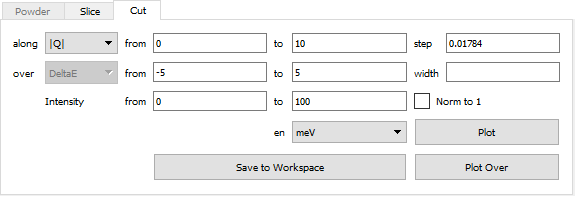
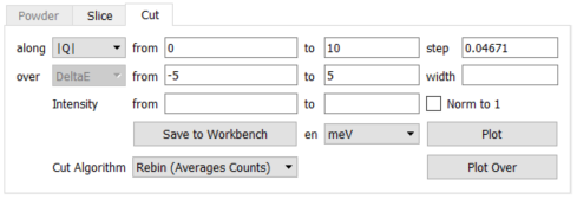
Add changes for eb2ddf95d92b57aceb3a79c77496417e3da8e1b7

Changed region(s): [[0.0, 0.0, 1.0, 1.0], [0.0625, 0.4873, 0.1875, 0.5787]]

diff --git a/searchindex.js b/searchindex.js
@@ -1,1 +1,1 @@
-Search.setIndex({docnames:["cli","cutting","index","quickstart","slicing"],envversion:{"sphinx.domains.c":2,"sphinx.domains.changeset":1,"sphinx.domains.citation":1,"sphinx.domains.cpp":4,"sphinx.domains.index":1,"sphinx.domains.javascript":2,"sphinx.domains.math":2,"sphinx.domains.python":3,"sphinx.domains.rst":2,"sphinx.domains.std":2,"sphinx.ext.todo":2,"sphinx.ext.viewcode":1,sphinx:56},filenames:["cli.rst","cutting.rst","index.rst","quickstart.rst","slicing.rst"],objects:{},objnames:{},objtypes:{},terms:{"0":[0,1,3],"00":3,"00mev_subtract":3,"01":0,"06d_powder":0,"1":[0,1,3,4],"10":[0,1,3],"100":3,"103154":0,"103158":0,"111":0,"16mev":3,"1d":[0,3,4],"2":[0,4],"291":4,"2d":[0,3,4],"3":[0,1,3],"4":[0,1,3,4],"5":0,"55":0,"6":[1,3],"8":0,"9":[1,3],"case":[0,1,3,4],"default":[0,1,3,4],"do":0,"final":[0,1,3],"function":[0,1,4],"import":0,"long":3,"new":3,"short":3,"switch":[3,4],"true":0,A:[3,4],By:3,For:[0,1,3,4],If:[1,3,4],In:[0,1,3,4],It:2,No:0,On:3,One:1,The:[0,1,3,4],Then:3,These:[0,1,3,4],To:[0,1,3,4],_:4,__init__:3,_sum:3,aa:0,abl:[0,1],about:1,abov:[0,1,3,4],accept:0,access:[1,3,4],accommod:0,accur:4,activ:3,ad:0,add:3,add_subplot:0,addit:[0,1,3,4],addition:0,after:3,again:[1,3],algebra:2,algorithm:[3,4],all:[0,3,4],allow:[0,1,3,4],along:[0,1,3],alreadi:1,also:[0,1,3,4],altern:[0,3],although:1,aluminium:[1,4],an:[0,1,3,4],analysi:[1,4],angl:[3,4],ani:[0,2,3],anihil:4,anoth:[3,4],appear:3,append:[0,3],appli:[0,3],ar:[0,1,3,4],arbitrari:[1,4],argument:0,arrow:3,ascii:[1,4],ask:3,automat:3,autoreduc:3,avail:[3,4],awar:0,ax:[0,1,3,4],axi:[1,3],background:[0,3],backspac:3,base:0,basic:3,bat:3,becaus:0,been:[0,3],befor:[0,3,4],behaviour:3,being:[1,4],below:3,between:[0,1],bin:[0,3,4],binmd:4,bose:4,boson:4,both:[0,2,3],box:[0,1,3],bragg:0,bring:4,bug:2,button:[1,3,4],calcul:[0,1,3,4],call:[0,3],can:[0,1,3,4],cannot:3,caus:1,cb:0,centr:4,chang:[0,1,3,4],check:[1,4],checkbox:4,chi:4,choos:3,chose:3,chunk:3,cif:[1,4],classic:4,clear:1,cli:0,click:[1,3,4],clipboard:0,cm:3,cmap:0,code:4,cog:[1,4],colorbar:[0,3],colour:1,column:[1,4],combin:3,combobox:[3,4],command:2,commandlin:2,common:[1,3,4],comput:[3,4],consol:[0,3],contain:3,control:3,convent:3,convers:0,convert:[0,1,2,3],coolwarm:0,coordin:[1,4],copi:[0,3],copper:[1,4],correct:4,correspond:[1,3],creat:[0,1,3],creation:4,cross:[3,4],crystal:3,crystallograph:[1,4],ctrl:3,current:[0,1,2],cursor:3,cut:[2,4],cut_w:0,cuttabl:1,d:4,data:[0,1,2],datafil:[3,4],dataset:[0,1,3],de:4,decreas:3,defin:[0,4],delta:0,denot:3,densiti:4,depend:[3,4],depth:4,desir:[3,4],detail:[1,3],detector:3,determin:1,deuterium:4,develop:3,dialog:[3,4],did:3,differ:[0,3,4],dimension:3,direct:[0,1],directli:[0,3,4],disabl:[1,3,4],disk:[1,4],displai:[2,3],distribut:3,divid:3,divis:4,doe:[0,3],don:3,done:[0,1,3],doubl:[1,3,4],down:3,download:3,drag:3,drop:3,dropdown:4,dynam:[3,4],e:[0,1,4],each:[0,1,3],easi:3,easiest:3,edit:[1,3],editor:3,effici:4,either:[0,1,3,4],electron:4,empti:[1,3],en:3,enabl:[1,3,4],end:0,energi:[0,1,2,4],ensur:3,enter:3,environ:[1,4],equival:4,errorbar:0,etc:0,even:0,event:[1,3,4],everi:3,everyth:3,exampl:[1,2,3],exp:4,explan:[1,4],externalinterfac:3,extra:3,extract:3,f:0,factor:[3,4],fast:3,featur:0,few:3,fig:0,figur:[0,1,4],file:[0,1,2,3],filesystem:3,fill:1,fine:0,finish:3,first:[0,1,3,4],flexibl:0,floppi:[1,4],fmt:0,focu:4,folder:3,font:3,form:4,format:[1,4],forum:2,four:4,frac:4,fraction:[3,4],fresh:1,from:[0,2,3],full:[0,3],fullprof:[1,4],further:1,futur:3,g:[0,1,4],g_n:4,gain:4,gener:[1,2,3,4],get:3,github:3,give:3,given:4,go:3,grain:0,graphic:0,gsa:[1,4],gui:[0,2,3],h:4,ha:[0,3],hair:3,hand:3,handl:3,have:[0,1,3,4],he:4,helium:4,help:[1,4],histo:[1,3],histogramworkspac:0,histori:0,hold:3,howev:[0,1,3],hydrogen:4,hyspec:3,icon:[1,4],imag:[1,3,4],implement:4,implicitli:1,importlib:0,improv:2,includ:[0,2,3],increas:3,individu:3,inelast:2,inform:[0,1,2],input:[1,3,4],instal:3,instead:[0,3],instrument:3,integr:[0,1,3],intemedi:4,intend:3,intens:[1,2],interact:[0,1,2],interfac:[1,2,3],intern:0,introduc:[1,3],ipython:[0,3],isi:3,item:3,its:[0,1,3],jump:3,jupyt:0,just:4,k_bt:4,k_f:4,k_i:4,keep:[0,1,2],kei:[3,4],kept:1,keyboard:3,keyword:0,label:1,larg:[3,4],last:[1,3],later:3,leav:[1,3],left:[1,3],leq:0,less:4,let:0,letter:3,level:3,light:4,like:4,limit:[0,1,3,4],line:2,linear:3,linspac:0,linux:3,load:[1,2,4],locat:3,log:[3,4],logarithm:3,look:[1,4],loss:[3,4],low:0,m:0,made:[1,3],mag:4,magnet:4,mai:[0,1,3,4],main:3,make:[0,1,2,4],makeproject:0,manag:[1,3,4],mani:0,manipul:[1,2],mantid:[0,1,3,4],mantidworkbench:[0,3],map:[0,3],mar28230_ei11:3,mar28236_ei10:3,mar28236_ei11:3,mar28237_ei10:3,mar28237_ei11:3,mat:[1,4],match:0,materi:[1,4],mathrm:[0,4],matlab:[1,3,4],matplotlib:2,maximum:[1,4],mc:0,md:[1,3,4],mdeventworkspac:0,mean:4,memori:3,menu:[0,1,3,4],merg:3,mesh:0,mev:[0,3],milibarn:4,minimum:[1,3],mode:[0,1,2,4],modifi:3,moment:4,momentum:[3,4],more:[1,3,4],mous:3,move:3,mslice:[1,4],mslicedevel:3,mu_b:4,multi:3,multipl:[0,1,3],multipli:4,must:[0,1,4],n:4,name:[0,3],navig:3,need:3,neg:4,neutron:[2,3,4],nexu:[1,4],niobium:[1,4],non:[0,1,2,4],norm:[1,4],normal:0,normalis:[1,4],note:[0,1,3,4],notebook:0,np:0,nuclei:4,number:[3,4],nx:[0,1,3,4],nxspe:[0,3],object:0,obtain:4,off:3,offset:3,ok:[0,3],old:3,omega:4,onc:[3,4],one2on:3,one:[0,3],ongo:3,onli:[0,1,3,4],open:3,openbabel:[1,4],oper:[0,3],option:[0,1,3,4],order:[0,1,3],orient:0,origin:[1,3,4],other:[0,3,4],out:3,outsid:3,over:[0,1,3],overplot:[0,2,3],overrid:0,overwrit:3,own:0,packag:[0,1,4],page:[1,2,4],pane:3,panel:[1,3],paramet:[3,4],particular:[1,3,4],path:[0,3],pcolormesh:0,pdf:[1,4],peak:0,per:0,perform:[0,4],pi:4,pixel:[3,4],pixelworkspac:0,plain:0,plan:3,pleas:[0,1,2,3,4],plot:[1,2,4],plotcut:0,plotov:0,plotslic:0,plt:0,pm:4,png:[1,4],point:[3,4],popul:4,posit:[1,3,4],possibl:1,powder:[2,3],present:3,preserv:3,press:3,previou:3,previous:1,primarili:3,prior:0,process:[2,3],produc:[0,1,3,4],program:[2,3],project:[0,1,3,4],properti:4,provid:[0,1,3,4],psd:[0,1,2,4],put:0,py:[0,3],pycifrw:[1,4],pyplot:0,python:0,q:[0,1,4],qq:0,quick:2,quickli:4,quit:3,r_e:4,radiu:4,rang:[0,1,3],rapid:3,rather:[3,4],re:0,reach:3,read:[1,4],readabl:[1,4],reason:4,rebin2d:4,rebin:[0,3,4],recognis:0,recoil:[0,2],recommend:0,rectangl:3,rectangular:3,redraw:3,reduc:3,reflect:[1,4],region:3,relat:4,releas:3,relev:1,reload:0,remaind:1,remov:3,render:0,reorganis:4,replot:3,report:2,reproduc:0,requir:3,resav:[1,4],respect:[1,3],restart:3,result:[1,3],ring:[0,3],rr:0,run:[0,3],s:[0,3,4],sai:3,same:[0,1,3,4],sampl:[1,3,4],save:[2,3],scalar:0,scale:1,scatter:[2,3,4],script:[2,3],script_nam:0,search:2,section:4,see:[1,3,4],select:[1,3,4],self:3,send:[1,3],sens:1,sensit:3,separ:3,seq_:0,seri:4,set:3,set_clim:0,set_titl:0,set_xlabel:0,set_xlim:0,set_ylim:0,sever:3,sh:3,shield:3,shift:3,shorter:0,should:3,show:[0,3],shown:[1,4],side:4,sigma:4,sign:4,signal:[1,4],similar:0,simpl:1,simultan:[1,4],singl:[1,3],size:[0,1,3,4],slice:[1,2],slice_w:0,small:3,smaller:[3,4],sn:3,so:[0,3],sofqwnormalisedpolygon:[3,4],some:[1,3,4],someth:0,specif:[2,3],specifi:[0,1,3,4],spectromet:3,spectrum:4,split:3,stabl:3,standard:0,start:2,state:4,step:[0,1,3,4],strictli:4,style:0,subfold:3,subplot:0,subsequ:[0,3],subtract:3,suggest:2,sum:3,support:[0,3],suscept:4,swap:3,symbol:1,symmetris:4,syntax:0,system:1,t:3,tab:[1,3,4],take:2,taken:3,tall:3,tantalum:[1,4],temperatur:[0,4],text:4,than:[3,4],thei:0,them:[1,3,4],thi:[0,1,2,3,4],three:[1,3],thu:[0,4],time:[0,1],titl:[0,1,3,4],togeth:3,tool:[0,2],toolbar:[1,3],total:4,transfer:[0,1,2,4],tree:3,turn:3,two:[1,3],txt:[1,3,4],type:[0,1,3,4],uncertainti:[1,4],unit:[2,4],uniti:[1,4],up:[3,4],updat:3,us:[1,2,3,4],user:[3,4],usual:[3,4],valu:[1,3,4],ve:3,vector:1,veri:3,versa:1,version:[2,3],versu:4,vertic:3,vesta:[1,4],via:3,vice:1,view:4,visual:2,volum:4,vs:4,wa:1,wai:[0,3],want:[0,3],waterfal:3,wavenumb:3,we:[1,4],weight:4,whatev:1,when:[0,1,3],where:4,wherea:4,whether:[1,3],which:[0,1,3,4],whilst:[0,3],white:3,width:[0,1,3],window:[0,1,3,4],wish:1,within:3,without:[1,3],work:0,workbench:1,workspac:[1,2,4],would:0,wrap:0,write:3,written:0,ws1:0,ws2:0,ws2d:0,ws:0,wsq:0,wss:0,x:[1,3,4],xye:[1,3,4],y:[1,3,4],you:[0,1,3,4],your:[3,4],z:4,zip:3},titles:["<span class=\"section-number\">4. </span>Command Line Interface","<span class=\"section-number\">2. </span>Taking Cuts","MSlice for Mantid","<span class=\"section-number\">1. </span>Quick Start","<span class=\"section-number\">3. </span>Taking Slices"],titleterms:{algebra:0,command:0,convert:4,current:3,cut:[0,1,3],data:[3,4],displai:4,energi:3,exampl:0,file:4,from:[1,4],gener:0,gui:[1,4],inform:4,intens:4,interact:3,interfac:0,keep:3,line:[0,1,4],load:[0,3],make:3,manipul:[0,3],mantid:2,matplotlib:0,mode:3,mslice:[0,2,3],non:3,overplot:[1,4],plot:[0,3],powder:[1,4],psd:3,quick:3,recoil:4,save:[1,4],script:0,seri:0,slice:[0,3,4],specif:0,start:3,take:[1,4],transfer:3,unit:3,us:0,workspac:[0,3]}})
+Search.setIndex({docnames:["cli","cutting","index","quickstart","slicing"],envversion:{"sphinx.domains.c":2,"sphinx.domains.changeset":1,"sphinx.domains.citation":1,"sphinx.domains.cpp":4,"sphinx.domains.index":1,"sphinx.domains.javascript":2,"sphinx.domains.math":2,"sphinx.domains.python":3,"sphinx.domains.rst":2,"sphinx.domains.std":2,"sphinx.ext.todo":2,"sphinx.ext.viewcode":1,sphinx:56},filenames:["cli.rst","cutting.rst","index.rst","quickstart.rst","slicing.rst"],objects:{},objnames:{},objtypes:{},terms:{"0":[0,1,3],"00":3,"00mev_subtract":3,"01":0,"06d_powder":0,"1":[0,1,3,4],"10":[0,1,3],"100":3,"103154":0,"103158":0,"111":0,"16mev":3,"1d":[0,3,4],"2":[0,4],"291":4,"2d":[0,3,4],"3":[0,1,3],"4":[0,1,3,4],"5":0,"55":0,"6":[1,3],"8":0,"9":[1,3],"case":[0,1,3,4],"default":[0,1,3,4],"do":0,"final":[0,1,3],"function":[0,1,4],"import":0,"long":3,"new":3,"short":3,"switch":[3,4],"true":0,A:[3,4],By:3,For:[0,1,3,4],If:[1,3,4],In:[0,1,3,4],It:2,No:0,On:3,One:1,The:[0,1,3,4],Then:3,There:1,These:[0,1,3,4],To:[0,1,3,4],_:4,__init__:3,_sum:3,aa:0,abl:[0,1],about:1,abov:[0,1,3,4],accept:0,access:[1,3,4],accommod:0,accur:4,activ:3,ad:0,add:3,add_subplot:0,addit:[0,1,3,4],addition:0,after:3,again:[1,3],algebra:2,algorithm:[1,3,4],all:[0,3,4],allow:[0,1,3,4],along:[0,1,3],alreadi:1,also:[0,1,3,4],altern:[0,3],although:1,aluminium:[1,4],an:[0,1,3,4],analysi:[1,4],angl:[3,4],ani:[0,2,3],anihil:4,anoth:[3,4],appear:3,append:[0,3],appli:[0,3],ar:[0,1,3,4],arbitrari:[1,4],argument:0,arrow:3,ascii:[1,4],ask:3,automat:3,autoreduc:3,avail:[3,4],averag:1,awar:0,ax:[0,1,3,4],axi:[1,3],background:[0,3],backspac:3,base:0,basic:[1,3],bat:3,becaus:0,been:[0,3],befor:[0,3,4],behaviour:3,being:[1,4],below:3,between:[0,1],bin:[0,3,4],binmd:4,bose:4,boson:4,both:[0,2,3],box:[0,1,3],bragg:0,bring:4,bug:2,button:[1,3,4],calcul:[0,1,3,4],call:[0,3],can:[0,1,3,4],cannot:3,caus:1,cb:0,centr:4,chang:[0,1,3,4],check:[1,4],checkbox:4,chi:4,choos:3,chose:3,chunk:3,cif:[1,4],classic:4,clear:1,cli:0,click:[1,3,4],clipboard:0,cm:3,cmap:0,code:4,cog:[1,4],colorbar:[0,3],colour:1,column:[1,4],combin:3,combobox:[3,4],command:2,commandlin:2,common:[1,3,4],comput:[1,3,4],consol:[0,3],contain:3,control:3,convent:3,convers:0,convert:[0,1,2,3],coolwarm:0,coordin:[1,4],copi:[0,3],copper:[1,4],correct:4,correspond:[1,3],count:1,creat:[0,1,3],creation:4,cross:[3,4],crystal:3,crystallograph:[1,4],ctrl:3,current:[0,1,2],cursor:3,cut:[2,4],cut_w:0,cuttabl:1,d:4,data:[0,1,2],datafil:[3,4],dataset:[0,1,3],de:4,decreas:3,defin:[0,4],delta:0,denot:3,densiti:4,depend:[3,4],depth:4,desir:[3,4],detail:[1,3],detector:3,determin:1,deuterium:4,develop:3,dialog:[3,4],did:3,differ:[0,1,3,4],dimension:3,direct:[0,1],directli:[0,1,3,4],disabl:[1,3,4],disk:[1,4],displai:[2,3],distribut:3,divid:3,divis:4,doe:[0,3],don:3,done:[0,1,3],doubl:[1,3,4],down:3,download:3,drag:3,drop:3,dropdown:4,dynam:[3,4],e:[0,1,4],each:[0,1,3],easi:3,easiest:3,edit:[1,3],editor:3,effect:1,effici:4,either:[0,1,3,4],electron:4,empti:[1,3],en:3,enabl:[1,3,4],end:0,energi:[0,1,2,4],ensur:3,enter:3,environ:[1,4],equival:4,errorbar:0,etc:0,even:0,event:[1,3,4],everi:3,everyth:3,exampl:[1,2,3],exp:4,explan:[1,4],externalinterfac:3,extra:3,extract:3,f:0,factor:[3,4],fast:3,featur:0,few:3,fig:0,figur:[0,1,4],file:[0,1,2,3],filesystem:3,fill:1,fine:0,finish:3,first:[0,1,3,4],flexibl:0,floppi:[1,4],fmt:0,focu:4,folder:3,font:3,form:4,format:[1,4],forum:2,four:4,frac:4,fraction:[3,4],fresh:1,from:[0,2,3],full:[0,3],fullprof:[1,4],further:1,futur:3,g:[0,1,4],g_n:4,gain:4,gener:[1,2,3,4],get:3,github:3,give:3,given:4,go:3,grain:0,graphic:0,gsa:[1,4],gui:[0,2,3],h:4,ha:[0,3],hair:3,hand:3,handl:3,have:[0,1,3,4],he:4,helium:4,help:[1,4],histo:[1,3],histogramworkspac:0,histori:0,hold:3,howev:[0,1,3],hydrogen:4,hyspec:3,icon:[1,4],imag:[1,3,4],implement:4,implicitli:1,importlib:0,improv:2,includ:[0,2,3],increas:3,individu:3,inelast:2,inform:[0,1,2],input:[1,3,4],instal:3,instead:[0,3],instrument:3,integr:[0,1,3],intemedi:4,intend:3,intens:[1,2],interact:[0,1,2],interfac:[1,2,3],intern:0,introduc:[1,3],ipython:[0,3],isi:3,item:3,its:[0,1,3],jump:3,jupyt:0,just:4,k_bt:4,k_f:4,k_i:4,keep:[0,1,2],kei:[3,4],kept:1,keyboard:3,keyword:0,label:1,larg:[3,4],last:[1,3],later:3,leav:[1,3],left:[1,3],leq:0,less:4,let:0,letter:3,level:3,light:4,like:4,limit:[0,1,3,4],line:2,linear:3,linspac:0,linux:3,load:[1,2,4],locat:3,log:[3,4],logarithm:3,look:[1,4],loss:[3,4],low:0,m:0,made:[1,3],mag:4,magnet:4,mai:[0,1,3,4],main:3,make:[0,1,2,4],makeproject:0,manag:[1,3,4],mani:0,manipul:[1,2],mantid:[0,1,3,4],mantidworkbench:[0,3],map:[0,3],mar28230_ei11:3,mar28236_ei10:3,mar28236_ei11:3,mar28237_ei10:3,mar28237_ei11:3,mat:[1,4],match:0,materi:[1,4],mathrm:[0,4],matlab:[1,3,4],matplotlib:2,maximum:[1,4],mc:0,md:[1,3,4],mdeventworkspac:0,mean:4,memori:3,menu:[0,1,3,4],merg:3,mesh:0,method:1,mev:[0,3],milibarn:4,minimum:[1,3],mode:[0,1,2,4],modifi:3,moment:4,momentum:[3,4],more:[1,3,4],mous:3,move:3,mslice:[1,4],mslicedevel:3,mu_b:4,multi:3,multipl:[0,1,3],multipli:4,must:[0,1,4],n:4,name:[0,3],navig:3,need:3,neg:4,neutron:[2,3,4],nexu:[1,4],niobium:[1,4],non:[0,1,2,4],norm:[1,4],normal:0,normalis:[1,4],note:[0,1,3,4],notebook:0,np:0,nuclei:4,number:[3,4],nx:[0,1,3,4],nxspe:[0,3],object:0,obtain:4,off:3,offset:3,ok:[0,3],old:3,omega:4,onc:[3,4],one2on:3,one:[0,3],ongo:3,onli:[0,1,3,4],open:3,openbabel:[1,4],oper:[0,3],option:[0,1,3,4],order:[0,1,3],orient:0,origin:[1,3,4],other:[0,3,4],out:3,outsid:3,over:[0,1,3],overplot:[0,2,3],overrid:0,overwrit:3,own:0,packag:[0,1,4],page:[1,2,4],pane:3,panel:[1,3],paramet:[3,4],particular:[1,3,4],path:[0,3],pcolormesh:0,pdf:[1,4],peak:0,per:0,perform:[0,4],pi:4,pixel:[3,4],pixelworkspac:0,plain:0,plan:3,pleas:[0,1,2,3,4],plot:[1,2,4],plotcut:0,plotov:0,plotslic:0,plt:0,pm:4,png:[1,4],point:[3,4],popul:4,posit:[1,3,4],possibl:1,powder:[2,3],present:3,preserv:3,press:3,previou:3,previous:1,primarili:3,prior:0,process:[2,3],produc:[0,1,3,4],program:[2,3],project:[0,1,3,4],properti:4,provid:[0,1,3,4],psd:[0,1,2,4],put:0,py:[0,3],pycifrw:[1,4],pyplot:0,python:0,q:[0,1,4],qq:0,quick:2,quickli:4,quit:3,r_e:4,radiu:4,rang:[0,1,3],rapid:3,rather:[3,4],re:0,reach:3,read:[1,4],readabl:[1,4],reason:4,rebin2d:4,rebin:[0,1,3,4],recognis:0,recoil:[0,2],recommend:0,rectangl:3,rectangular:3,redraw:3,reduc:3,reflect:[1,4],region:3,relat:4,releas:3,relev:1,reload:0,remaind:1,remov:3,render:0,reorganis:4,replot:3,report:2,reproduc:0,requir:3,resav:[1,4],respect:[1,3],restart:3,result:[1,3],ring:[0,3],rr:0,run:[0,3],s:[0,3,4],sai:3,same:[0,1,3,4],sampl:[1,3,4],save:[2,3],scalar:0,scale:1,scatter:[2,3,4],script:[2,3],script_nam:0,search:2,section:4,see:[1,3,4],select:[1,3,4],self:3,send:[1,3],sens:1,sensit:3,separ:3,seq_:0,seri:4,set:3,set_clim:0,set_titl:0,set_xlabel:0,set_xlim:0,set_ylim:0,sever:3,sh:3,shield:3,shift:3,shorter:0,should:3,show:[0,3],shown:[1,4],side:4,sigma:4,sign:4,signal:[1,4],similar:0,simpl:1,simultan:[1,4],singl:[1,3],size:[0,1,3,4],slice:[1,2],slice_w:0,small:3,smaller:[3,4],sn:3,so:[0,3],sofqwnormalisedpolygon:[3,4],some:[1,3,4],someth:0,specif:[2,3],specifi:[0,1,3,4],spectromet:3,spectrum:4,split:3,stabl:3,standard:0,start:2,state:4,step:[0,1,3,4],strictli:4,style:0,subfold:3,subplot:0,subsequ:[0,3],subtract:3,suggest:2,sum:[1,3],support:[0,3],suscept:4,swap:3,symbol:1,symmetris:4,syntax:0,system:1,t:3,tab:[1,3,4],take:2,taken:3,tall:3,tantalum:[1,4],temperatur:[0,4],text:4,than:[3,4],thei:0,them:[1,3,4],thi:[0,1,2,3,4],three:[1,3],thu:[0,4],time:[0,1],titl:[0,1,3,4],togeth:3,tool:[0,2],toolbar:[1,3],total:4,transfer:[0,1,2,4],tree:3,turn:3,two:[1,3],txt:[1,3,4],type:[0,1,3,4],uncertainti:[1,4],unit:[2,4],uniti:[1,4],up:[3,4],updat:3,us:[1,2,3,4],user:[3,4],usual:[3,4],valu:[1,3,4],ve:3,vector:1,veri:3,versa:1,version:[2,3],versu:4,vertic:3,vesta:[1,4],via:3,vice:1,view:4,visual:2,volum:4,vs:4,wa:1,wai:[0,3],want:[0,3],waterfal:3,wavenumb:3,we:[1,4],weight:4,whatev:1,when:[0,1,3],where:4,wherea:4,whether:[1,3],which:[0,1,3,4],whilst:[0,1,3],white:3,width:[0,1,3],window:[0,1,3,4],wish:1,within:3,without:[1,3],work:0,workbench:1,workspac:[1,2,4],would:0,wrap:0,write:3,written:0,ws1:0,ws2:0,ws2d:0,ws:0,wsq:0,wss:0,x:[1,3,4],xye:[1,3,4],y:[1,3,4],you:[0,1,3,4],your:[3,4],z:4,zip:3},titles:["<span class=\"section-number\">4. </span>Command Line Interface","<span class=\"section-number\">2. </span>Taking Cuts","MSlice for Mantid","<span class=\"section-number\">1. </span>Quick Start","<span class=\"section-number\">3. </span>Taking Slices"],titleterms:{algebra:0,command:0,convert:4,current:3,cut:[0,1,3],data:[3,4],displai:4,energi:3,exampl:0,file:4,from:[1,4],gener:0,gui:[1,4],inform:4,intens:4,interact:3,interfac:0,keep:3,line:[0,1,4],load:[0,3],make:3,manipul:[0,3],mantid:2,matplotlib:0,mode:3,mslice:[0,2,3],non:3,overplot:[1,4],plot:[0,3],powder:[1,4],psd:3,quick:3,recoil:4,save:[1,4],script:0,seri:0,slice:[0,3,4],specif:0,start:3,take:[1,4],transfer:3,unit:3,us:0,workspac:[0,3]}})

diff --git a/cutting.html b/cutting.html
@@ -61,6 +61,8 @@ cuts between the specified integration minimum and maximum with the specified wi
 For example, if <code class="docutils literal notranslate"><span class="pre">from</span></code> is <code class="docutils literal notranslate"><span class="pre">0</span></code> and <code class="docutils literal notranslate"><span class="pre">to</span></code> is <code class="docutils literal notranslate"><span class="pre">10</span></code> and <code class="docutils literal notranslate"><span class="pre">width</span></code> is <code class="docutils literal notranslate"><span class="pre">3</span></code>, clicking <code class="docutils literal notranslate"><span class="pre">Plot</span></code> will overplot 4 cuts which
 integrate over [0,3], [3,6], [6,9] and [9,10] respectively.</p>
 <p>Cuts with the same range from multiple datasets can be plotted by first selecting multiple workspaces in the left panel.</p>
+<p>There are two different methods to compute cuts. <code class="docutils literal notranslate"><span class="pre">Rebin</span></code> uses the basic rebinning algorithms directly and effectively averages
+the counts in the integration range, whilst <code class="docutils literal notranslate"><span class="pre">Integration</span></code> sums the counts in the integration range.</p>
 <p>Clicking on the <code class="docutils literal notranslate"><span class="pre">Norm</span> <span class="pre">to</span> <span class="pre">1</span></code> check box will cause the resulting cut data to be normalised such that the maximum of the data
 of each cut is unity.</p>
 <p>The <code class="docutils literal notranslate"><span class="pre">Plot</span> <span class="pre">Over</span></code> button allows you to overplot data on the same figure window without first clearing the current data. Note
@@ -100,10 +102,8 @@ addition you can also save the figure as an image, either in <code class="docuti
 <p>In order to save a cut from an <a class="reference internal" href="quickstart.html#interactive-cuts"><span class="std std-ref">Interactive Cuts</span></a>, you can click the <code class="docutils literal notranslate"><span class="pre">Save</span></code> icon (floppy disk) direct on the cut
 window, or first click the <code class="docutils literal notranslate"><span class="pre">Save</span> <span class="pre">Cut</span> <span class="pre">to</span> <span class="pre">Workspace</span></code> button to create an <code class="docutils literal notranslate"><span class="pre">MD</span> <span class="pre">Histo</span></code> type workspace and then use the <code class="docutils literal notranslate"><span class="pre">Save</span></code> button on
 that tab.</p>
-<dl class="simple">
-<dt>When MSlice is used as a Mantid interface <code class="docutils literal notranslate"><span class="pre">MD</span> <span class="pre">Histo</span></code> type workspaces can also be saved to Mantid Workbench by clicking the</dt><dd><p><code class="docutils literal notranslate"><span class="pre">Save</span> <span class="pre">to</span> <span class="pre">Workbench</span></code> button either on the <code class="docutils literal notranslate"><span class="pre">MD</span> <span class="pre">Histo</span></code> or the <code class="docutils literal notranslate"><span class="pre">Cut</span></code> tab.</p>
-</dd>
-</dl>
+<p>When MSlice is used as a Mantid interface <code class="docutils literal notranslate"><span class="pre">MD</span> <span class="pre">Histo</span></code> type workspaces can also be saved to Mantid Workbench by clicking the
+<code class="docutils literal notranslate"><span class="pre">Save</span> <span class="pre">to</span> <span class="pre">Workbench</span></code> button either on the <code class="docutils literal notranslate"><span class="pre">MD</span> <span class="pre">Histo</span></code> or the <code class="docutils literal notranslate"><span class="pre">Cut</span></code> tab.</p>
 </section>
 </section>
 

diff --git a/quickstart.html b/quickstart.html
@@ -126,7 +126,7 @@ Only when you click <code class="docutils literal notranslate"><span class="pre"
 </section>
 <section id="plotting-a-cut">
 <h2><span class="section-number">1.6. </span>Plotting a Cut<a class="headerlink" href="#plotting-a-cut" title="Permalink to this headline">¶</a></h2>
-<a class="reference internal image-reference" href="_images/cut_q.png"><img alt="_images/cut_q.png" src="_images/cut_q.png" style="width: 788.8000000000001px; height: 733.6px;" /></a>
+<a class="reference internal image-reference" href="_images/cut_q.png"><img alt="_images/cut_q.png" src="_images/cut_q.png" style="width: 639.2px; height: 693.6px;" /></a>
 <p>Instead of an interactive cut, you can use the main GUI to specify more specific limits and step sizes for cuts.
 This will also allow you to overplot multiple cuts from the same dataset with different integration ranges, or
 from different datasets. To overplot multiple ranges, you can also use the <code class="docutils literal notranslate"><span class="pre">width</span></code> parameter. This splits in
